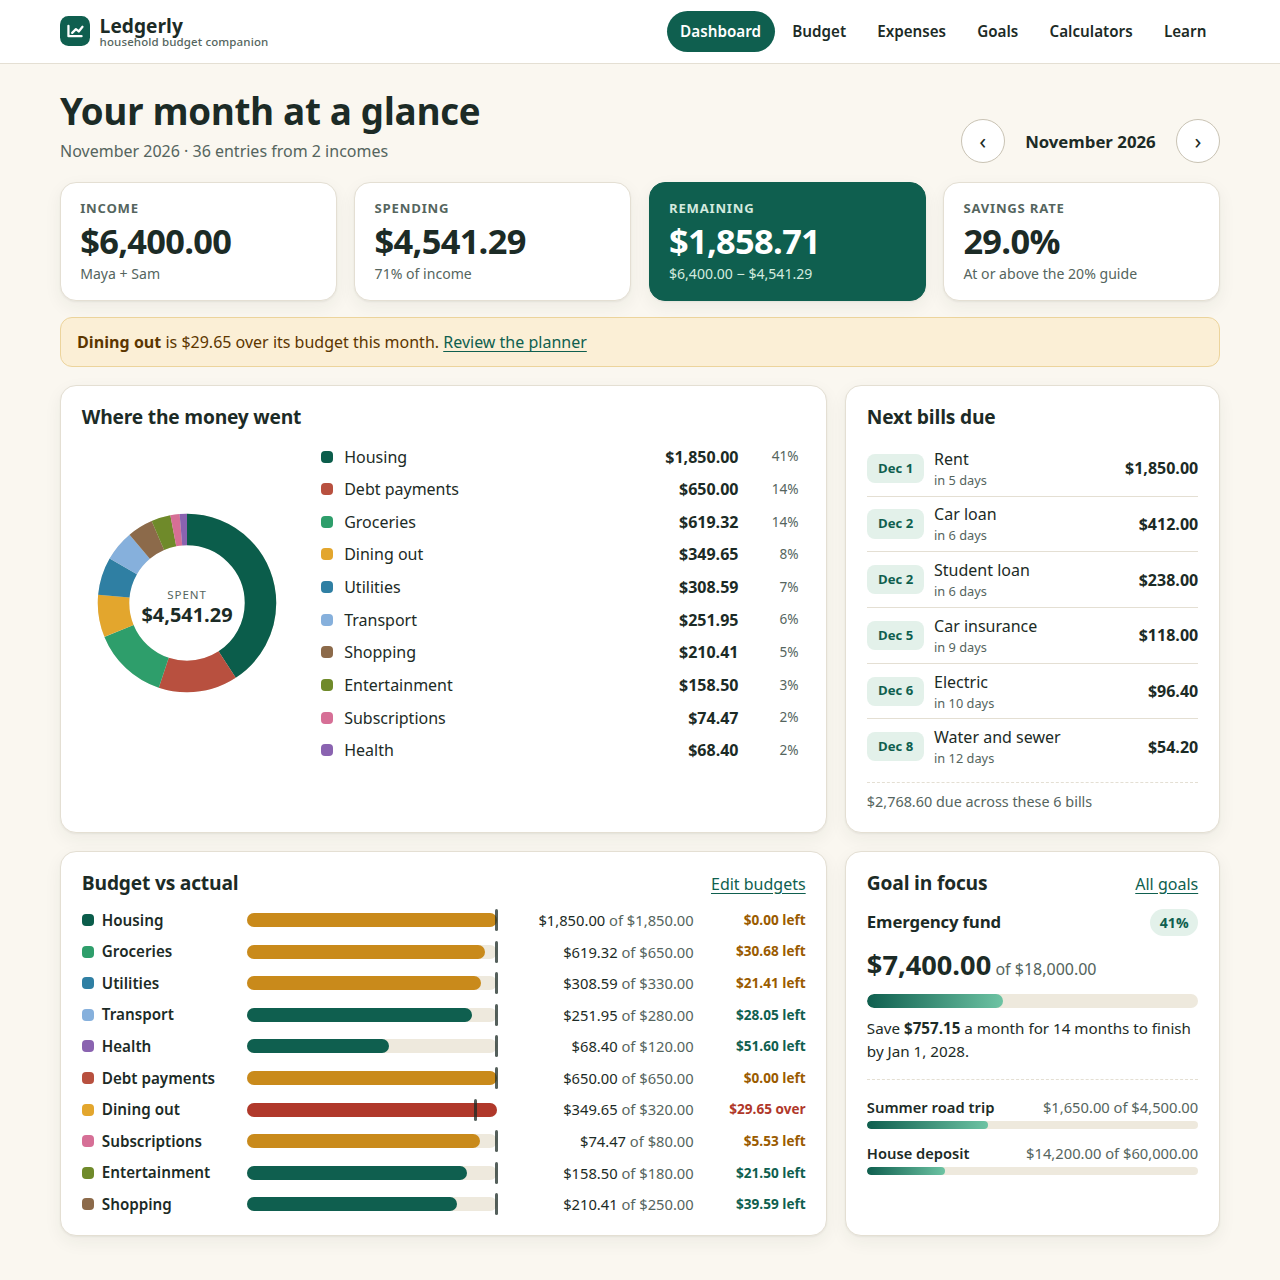
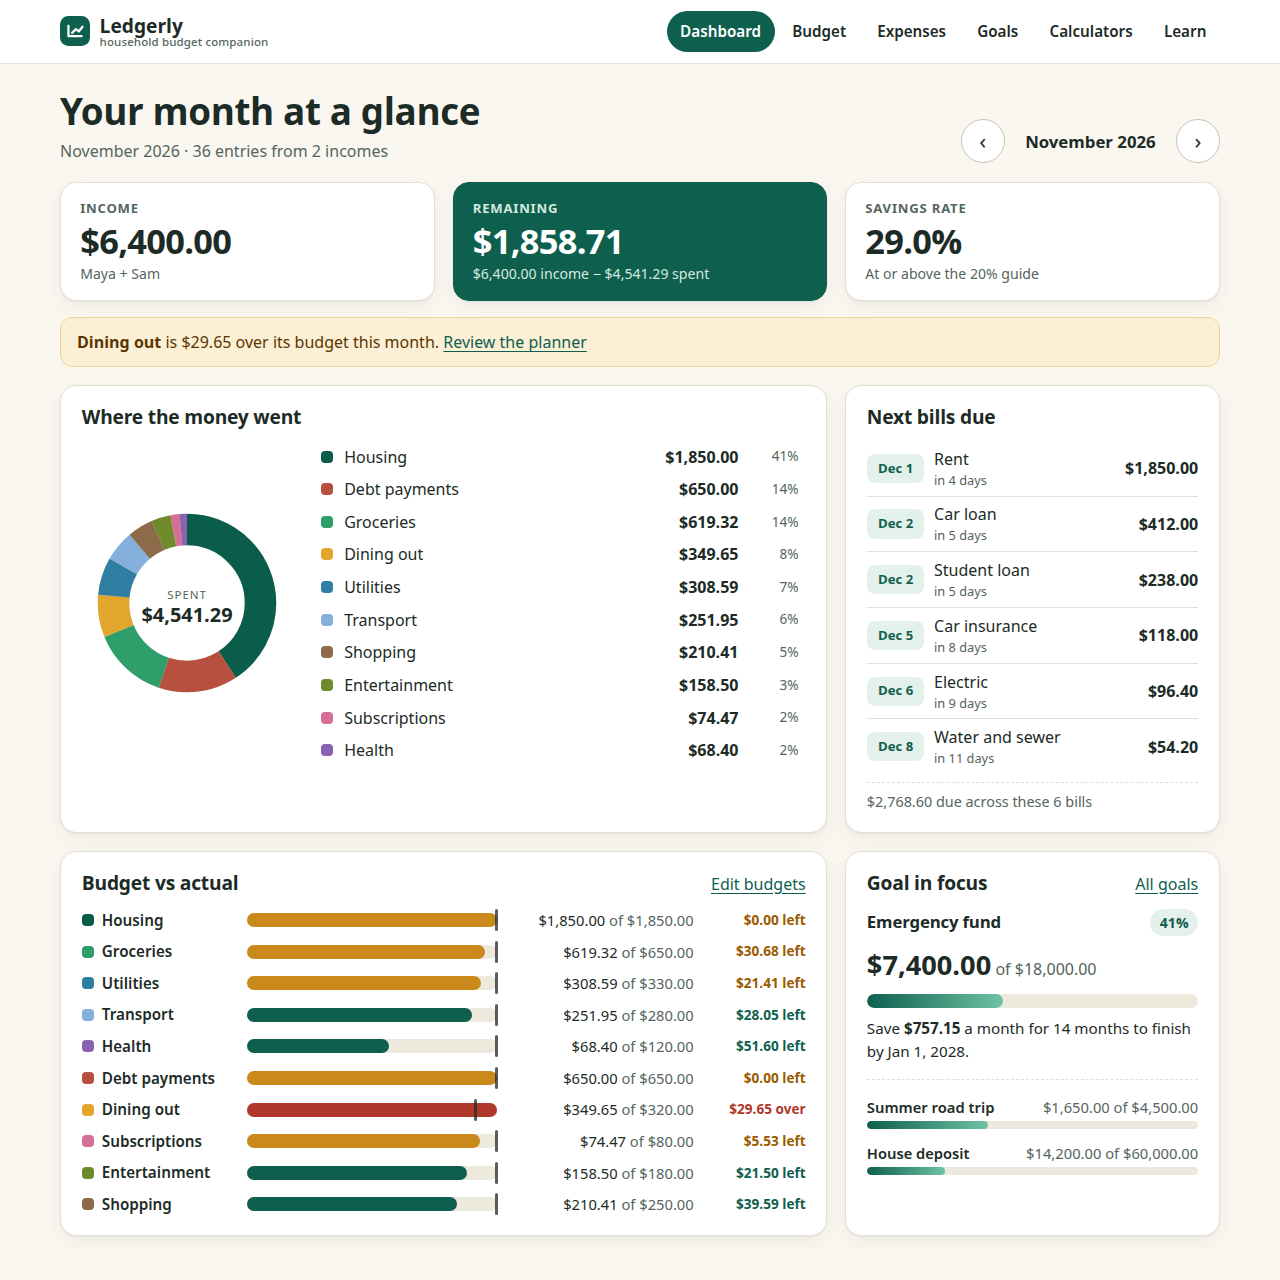
v2: tighten dashboard summary to three cards, re-shoot dashboard and calculators screenshots

Changed region(s): [[0.2812, 0.125, 0.875, 0.25], [0.75, 0.5312, 0.7812, 0.5625]]

diff --git a/app/dashboard.js b/app/dashboard.js
@@ -17,8 +17,7 @@ export function render(main) {
     $('#dash-body', main).innerHTML = `
       <section class="kpis" aria-label="Month totals">
         <div class="kpi"><span class="kpi-label">Income</span><span class="kpi-value">${money(s.income)}</span><span class="kpi-sub">${state.income.map((i) => esc(i.name.split(' ')[0])).join(' + ')}</span></div>
-        <div class="kpi"><span class="kpi-label">Spending</span><span class="kpi-value">${money(s.spent)}</span><span class="kpi-sub">${percent(s.income ? s.spent / s.income : 0, 0)} of income</span></div>
-        <div class="kpi accent"><span class="kpi-label">Remaining</span><span class="kpi-value ${s.remaining < 0 ? 'neg' : ''}">${money(s.remaining)}</span><span class="kpi-sub">${money(s.income)} − ${money(s.spent)}</span></div>
+        <div class="kpi accent"><span class="kpi-label">Remaining</span><span class="kpi-value ${s.remaining < 0 ? 'neg' : ''}">${money(s.remaining)}</span><span class="kpi-sub">${money(s.income)} income − ${money(s.spent)} spent</span></div>
         <div class="kpi"><span class="kpi-label">Savings rate</span><span class="kpi-value">${percent(s.savingsRate)}</span><span class="kpi-sub">${s.savingsRate >= 0.2 ? 'At or above the 20% guide' : 'Below the 20% guide'}</span></div>
       </section>
       ${tip ? `<p class="callout warn"><strong>${esc(tip.cat.name)}</strong> is ${money(tip.amount)} over its budget this month. <a href="planner.html">Review the planner</a></p>` : '<p class="callout">Every category is within budget this month.</p>'}

diff --git a/app/style.css b/app/style.css
@@ -237,6 +237,7 @@ table .num { text-align: right; }
   .dash-grid, .plan-grid, .goal-grid { grid-template-columns: 1fr; }
   .kpis, .kpis:has(> :nth-child(3):last-child) { grid-template-columns: 1fr 1fr; gap: .7rem; }
   .kpi { padding: .8rem .9rem; }
+  .kpis:has(> :nth-child(3):last-child) .kpi.accent { grid-column: 1 / -1; order: -1; }
   .cat-chart { grid-template-columns: 1fr; justify-items: center; }
   .legend { width: 100%; }
   .bva li { grid-template-columns: 1fr auto; row-gap: .3rem; padding-bottom: .5rem; border-bottom: 1px solid var(--line); }

diff --git a/README.md b/README.md
@@ -13,7 +13,7 @@ the browser's localStorage, seeded once with a realistic two-income sample house
 
 | Page | What it does |
 | --- | --- |
-| `index.html` Dashboard | Month switcher; income, spending, remaining and savings-rate cards; category donut; budget-vs-actual bars; next bills due; goal in focus |
+| `index.html` Dashboard | Month switcher; income, remaining (income − spent) and savings-rate cards; category donut; budget-vs-actual bars; next bills due; goal in focus |
 | `planner.html` Budget | Editable monthly budget per category with spent-so-far bars and over/near/under states; editable incomes; 50/30/20 panel computed from the household's own income and spending |
 | `tracker.html` Expenses | Add, edit, delete (with undo) entries; month switcher; category filter (select or tap the chart legend); running totals; live category chart; CSV export; reset to sample data |
 | `goals.html` Goals | Goal cards with target, saved, progress, and the monthly contribution needed by the target date; add money, withdraw, delete, and an add-goal form with a live preview |
